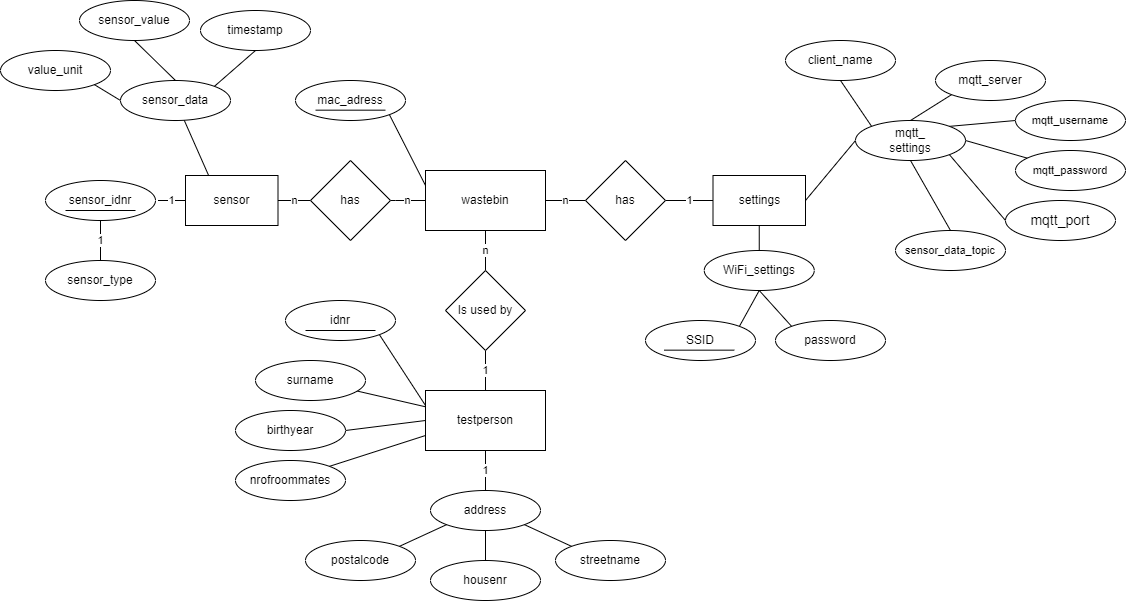
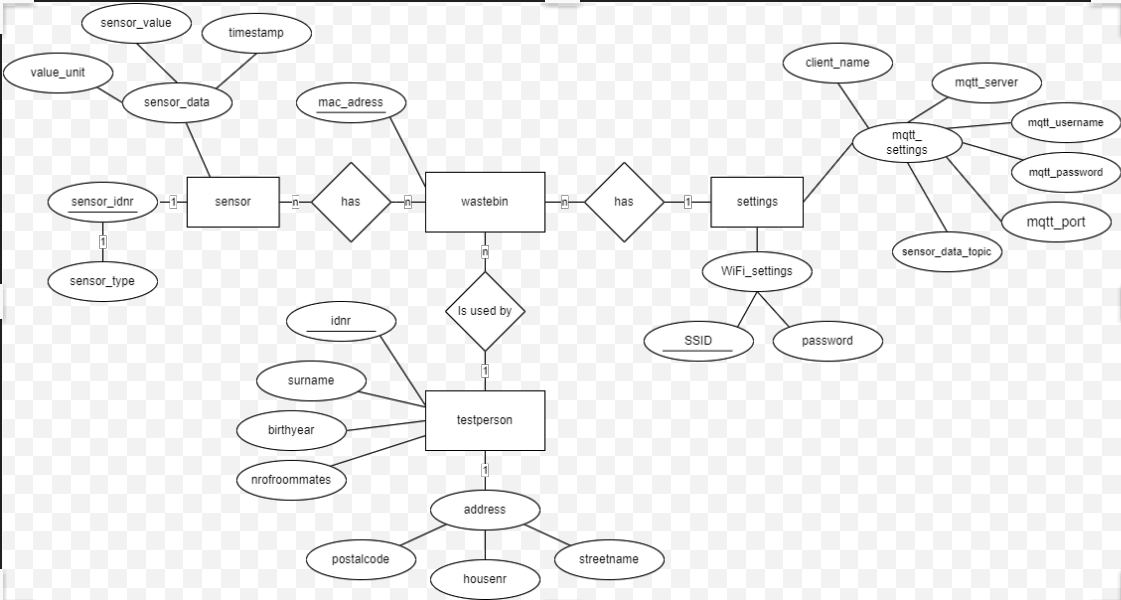
added database to IoT oplossing.md

diff --git a/IoT oplossing.md b/IoT oplossing.md
@@ -80,3 +80,13 @@ In deze flow word via de eerste Node (paars) de MQTT data ontvangen. Vervolgens 
 Als de berichten zijn afgesplitst komen ze in een groot functie blok (oranje) dat de het bericht uit elkaar trekt en verdeeld over de outputs van het functieblok. Ik kies hiervoor omdat op deze manier het functie blok modulair blijft en de output daarmee ook. De output word gestuurd naar dashboard blokken (blauw) en naar nieuwe functie blokken die de extra data toevoegen (sensoridnr) en het als query naar een SQLITE database stuurt.
 
 ### DataBase
+
+Alle informatie word via Node-Red in het SQLITE blok doorgestuurd naar een database. Het doel van de database is een navigeerbare geschiedenis creëeren van alle data die de vuilnisbakken ontvangen en een overzicht creëeren van alle gebruikers (testpersonen) en hun gegevens.
+
+De database is als volgt opgebouwd:
+![Database design](WasteBinDBER.png)
+
+Hierbij zijn alle onderstreepte woorden sleutelwaardes. Helaas laat een DBER (DataBaseEntityRelationship diagram) niet alles zien. Dit is wel een juiste manier om een snel overzicht te geven van de database.
+
+De tabellen en relaties in de database zijn als volgt:
+![Database tabellen](databaseexport.png)
